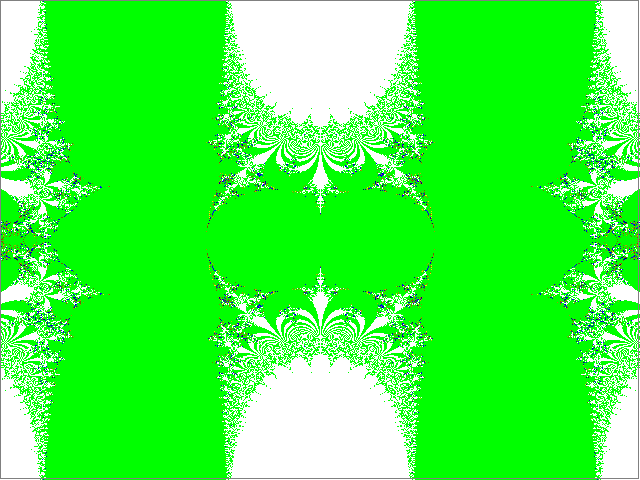
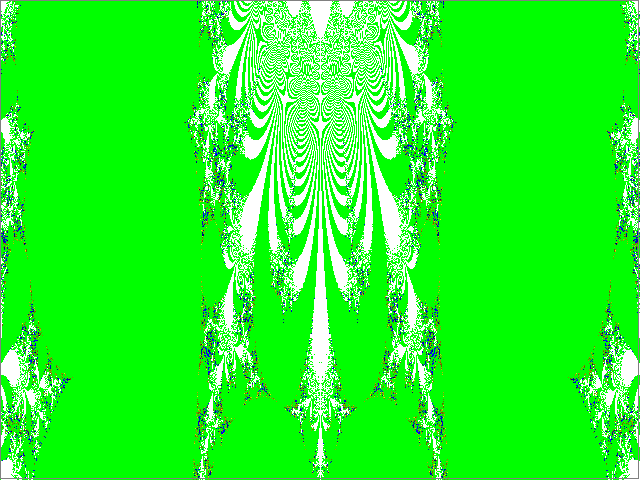
add parameters.txt

Changed region(s): [[0.2812, 0.0, 0.7188, 1.0], [0.8438, 0.0, 1.0, 1.0], [0.0, 0.0, 0.1562, 1.0]]

diff --git a/project/fractal-parallel/src/FractalPartThread.java b/project/fractal-parallel/src/FractalPartThread.java
@@ -61,8 +61,9 @@ public class FractalPartThread extends Thread {
 		Complex zIteration = null;
 		Double realPartOfZPrevious = null;
 
+		// maybe tweak maxIterations, 1000 is to much, maybe 500 or little bit less
 		int iterations = 0;
-		final int maxIterations = 1000;
+		final int maxIterations = 500;
 
 		for (int i = 0; i < maxIterations; i++) {
 			zIteration = calculateIterationTerm(zPrevious, constant);
@@ -195,7 +196,7 @@ public class FractalPartThread extends Thread {
 	}
 
 //	maybe make the method synchronized
-	private synchronized void drawPixel(BufferedImage bufferedImage, int xPixel, int yPixel, int color) {
+	private void drawPixel(BufferedImage bufferedImage, int xPixel, int yPixel, int color) {
 		bufferedImage.setRGB(xPixel, yPixel, color);
 	}
 }
